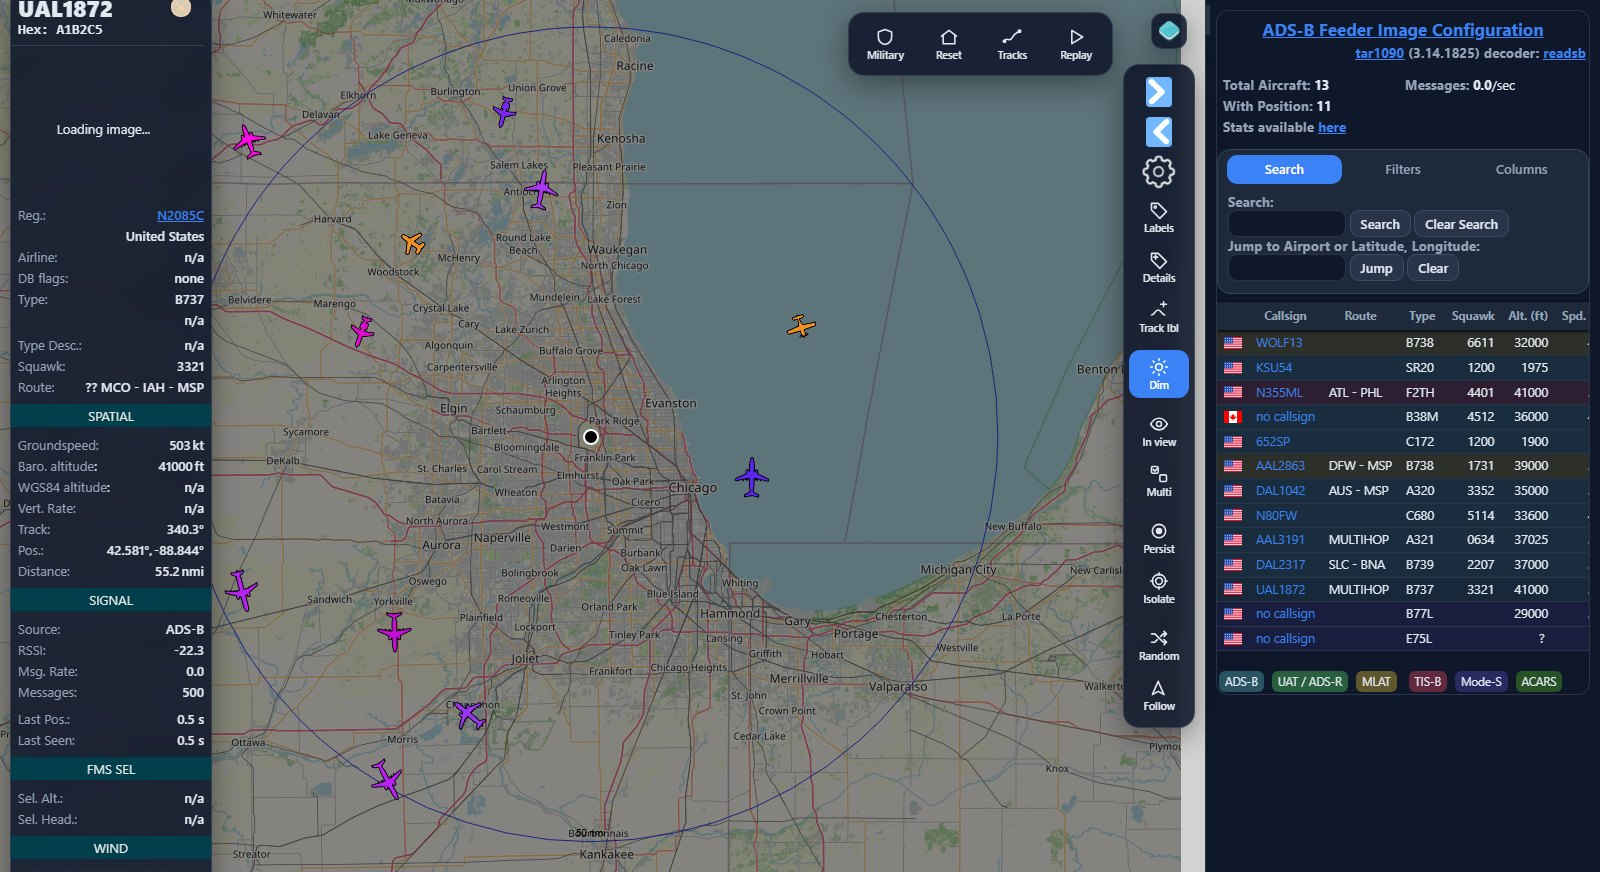
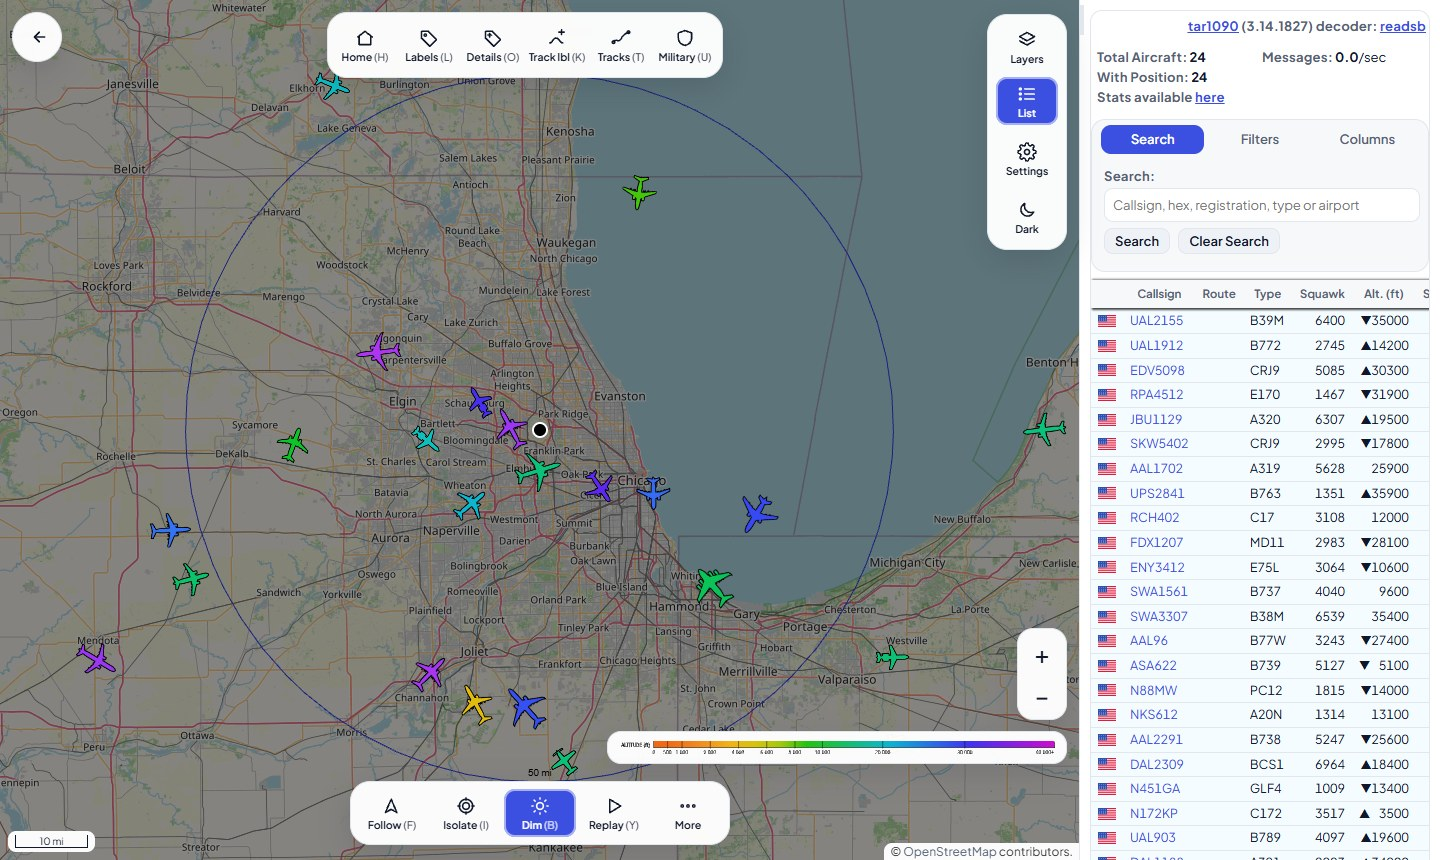
-30 README: full update for the Daylight look and -30 (report, dashboard, map layout, menus), all screenshots retaken with sample data; type photos no longer skip airliners or pick factory pages

diff --git a/src/modules/adsb-feeder/filesystem/root/opt/adsb/adsb-setup/static/js/k4nza-ui.js b/src/modules/adsb-feeder/filesystem/root/opt/adsb/adsb-setup/static/js/k4nza-ui.js
@@ -465,7 +465,8 @@
   const photoCache = new Map(); // hex -> {src, link, credit, typical} or null
   const photoWait = new Map(); // hex -> promise while asking
   const WIKI_AIRCRAFT = /aircraft|airliner|trainer|fighter|helicopter|bomber|tanker|airlifter|airplane|aeroplane|jet|plane|glider|gunship/i;
-  const WIKI_NOT = /engine|list of|family of|disambiguation|airport|airline|company|manufacturer|ship|car|vehicle/i;
+  // whole words only: "airline" must not match "Airliner"
+  const WIKI_NOT = /\b(engine|list of|family of|disambiguation|airport|airline|company|manufacturer|ship|car|vehicle|facility|factory|plant|assembly|museum|base|squadron)\b/i;
   async function spottersPhoto(hex) {
     const r = await fetch("https://api.planespotters.net/pub/photos/hex/" + encodeURIComponent(hex.toUpperCase()), { signal: AbortSignal.timeout(10000) });
     if (!r.ok) return null;

diff --git a/README.md b/README.md
@@ -11,6 +11,7 @@ writes to the SD card.
 **[Install](#install)** · **[What's new](CHANGELOG.md)** · **[SkyStats-K4NZA](https://github.com/ordoleonum/skystats-k4nza)** · **[Everyday use](#everyday-use)**
 
 ![Home dashboard](docs/screenshots/home.png)
+<sub>Sample data.</sub>
 
 ---
 
@@ -22,24 +23,25 @@ writes to the SD card.
 | **Every aircraft you've ever heard, searchable** | SkyStats-K4NZA keeps your history for months without freezing, and finds any aircraft by registration, callsign, type, operator or group. |
 | **Updates in one click, and back again** | Feeder and Raspberry Pi OS updates (kernels included) from one page. If a new version misbehaves, **Go back** reinstalls the old one. |
 | **Nightly backup to your NAS** | Settings, graphs and the whole SkyStats database, saved every night to a Synology or any SMB share. |
-| **Health at a glance** | Home shows receiver status, CPU temperature, power supply, disk space and history size, and turns amber or red with advice when something needs attention. |
-| **A modern live map** | Clean dark or light panels and buttons with words, on an unmodified tar1090 that keeps getting its own updates. |
+| **A dashboard, not a status page** | Aircraft overhead and today, the closest aircraft right now, today's highlights with photos, busy hours by day, week or month, and Pi health that turns amber or red with advice. |
+| **A modern live map** | Light or dark, buttons with words, replay links that follow the aircraft, on an unmodified tar1090 that keeps getting its own updates. |
 
-## New in v3.0.15-29
+## New in v3.0.15-30
 
-**Daylight**, a new look across the feeder, the live map and SkyStats, in light and dark:
+- **Dashboard:** the highlight cards (military, highest, rarest type, farthest) show a photo and open
+  the aircraft in SkyStats; the busy-hours card switches between Day, Week and Month; numbers refresh
+  faster and catch up as soon as you come back to the tab.
+- **Live map:** Layers, List, Settings and light/dark in one column at the top right; the search box
+  back in the aircraft list; replay links from SkyStats follow and isolate the aircraft; nothing
+  covers the replay bar; round zoom buttons and a bigger altitude key; photos that don't arrive are
+  asked for again.
+- **SkyStats:** clean type names ("Boeing 737-800"), ADSBExchange links, type photos when an aircraft
+  has none of its own, and operator and type for military aircraft only the feeder's own database
+  knows.
+- A new antenna mark in the top bar and as the tab icon.
 
-- **Feeder home** is a dashboard: aircraft overhead and today, today hour by hour, the closest
-  aircraft right now, today's highlights (farthest, highest, latest military, rarest type), the sites
-  you share with and station health. A top menu on a computer.
-- **Live map:** reorganised buttons around the edges, selected aircraft on the left, altitude key
-  bottom right, and a light/dark switch that follows the feeder.
-- **SkyStats:** a report for Today, Week, Month or All time (busiest hours, range, signal, airlines,
-  types, routes, notable visitors), a Feeder button, and visit times that open the live map's
-  **replay** of that moment.
-- **Updates** show the SkyStats download's progress and retry it if it stalls.
-
-**v3.0.15-28:** a page-by-page UI review; "today" counts no longer read 0 in the evening.
+**v3.0.15-29:** **Daylight**, the new look across the feeder, the live map and SkyStats, in light and
+dark, with the dashboard home page and the SkyStats report.
 
 Every release is in the [CHANGELOG](CHANGELOG.md).
 
@@ -53,16 +55,19 @@ SkyStats with its own public repository.
 **Find any aircraft.** Use the **Search** tab, or the search box on the feeder's Home page. Search by
 registration, hex code, callsign, type (`B739`, `C17`) or operator. You'll see every visit: when it
 came, its callsign and route, how close it got, how high it flew and how long it stayed in view.
-There's a photo from planespotters.net (credited to the photographer) and a FlightAware link, and you
-can download the visits as CSV.
+There's a photo from planespotters.net (credited to the photographer), or a photo of the type from
+Wikipedia, clearly marked as not this aircraft, when there's none of the aircraft itself. An
+**ADSBExchange** link shows where it is now, a click on any visit opens the live map's **replay** of
+it, and you can download the visits as CSV.
 
 ![SkyStats aircraft search](docs/screenshots/skystats-search.jpg)
-<sub>Sample data. Photo: U.S. Air Force photo by Heide Couch, public domain.</sub>
+<sub>Sample data. Type photo from Wikipedia.</sub>
 
-**List a whole group.** Click **Military**, **Government**, **Police** or **Civilian** in
-Interesting Aircraft to see every aircraft of that group in your history, not just the latest few.
-Click any column heading to sort. A registration anywhere in Interesting Aircraft or Record Holders
-opens its full history too.
+**List a whole group.** Click **Military**, **Government**, **Police** or **Civilian** on the
+Search tab or in Interesting Aircraft to see every aircraft of that group in your history, not just
+the latest few. Click any column heading to sort. A registration anywhere in SkyStats opens its full
+history too. Military aircraft that only the feeder's own aircraft database knows (not the
+plane-alert list) count as Military, with the operator and type that database has.
 
 ![Every military aircraft seen, sorted by visits](docs/screenshots/skystats-group.jpg)
 <sub>Sample data.</sub>
@@ -80,33 +85,39 @@ opens its full history too.
 - You can limit the history (*Setup → Advanced → SkyStats → Keep history (days)*). All-time totals,
   top types and the all-time range outline stay correct anyway.
 
+## A report on your sky
+
+SkyStats opens on a report for **Today**, **Week**, **Month** or **All time**: how many flights
+crossed your sky compared with the period before, how many different aircraft and types, the
+farthest one, the military ones, and when your sky is busiest, hour by hour for each day of the week.
+
+![SkyStats report](docs/screenshots/skystats-report.jpg)
+<sub>Sample data.</sub>
+
+Further down: **Aircraft types** and **Who flew over most**, **Where they were going** (the
+commonest routes) and **Notable visitors** with photos and a **Replay** link for each.
+
 ## See how well your station hears
 
-**Range by Direction** shows the farthest aircraft heard in each direction, with your all-time best
-as an outline; a dent shows where something blocks the antenna. **Signal vs Distance** plots each
+**How far you can hear** shows the farthest aircraft heard in each direction, with your all-time best
+as an outline; a dent shows where something blocks the antenna. **Signal vs distance** plots each
 aircraft's signal at its closest approach against distance, with the median and the overload
 level, for tuning gain and checking an antenna or filter change.
 
-![SkyStats reception charts](docs/screenshots/skystats-activity.jpg)
+![SkyStats reception charts](docs/screenshots/skystats-charts.jpg)
 <sub>Sample data.</sub>
 
 Not sure what you're looking at? **How to read this chart**, under both charts, explains what
 healthy looks like and what too much gain, too little gain, a blocked direction and gaps look like.
-
-<details>
-<summary>Show the chart guide</summary>
-
-![Signal vs Distance with its reading guide open](docs/screenshots/skystats-signal-notes.jpg)
-<sub>Sample data.</sub>
-</details>
 
 ## One-click updates you can undo
 
 The **Updates** page shows what's installed, what's waiting and what's new.
 
 - **Update feeder software** installs the newest release from this repository, including a new
-  SkyStats when there is one. The SkyStats download is checked against a checksum first. Settings
-  and history are kept; an update takes 5-15 minutes and feeding pauses only briefly.
+  SkyStats when there is one. The SkyStats download shows its progress, is retried if it stalls, and
+  is checked against a checksum first. Settings and history are kept; an update takes 5-15 minutes
+  and feeding pauses only briefly. **What's new** shows the release notes before you update.
 - **Update Pi OS** installs Raspberry Pi OS updates, new kernels included, then removes what's no
   longer needed. After a kernel update, **Restart now** appears.
 - **Go back to ...** reinstalls the version the feeder ran before, if something isn't right
@@ -160,35 +171,48 @@ It also stays reachable and quiet on your network:
 
 ## A dashboard you can read at a glance
 
-- **Top menu** on a computer with the installed version and live receiver status (a slide-in menu
-  and bottom tabs on a phone); light and dark mode.
-- **Home** shows aircraft now, messages and positions per second, and aircraft today, all refreshing
-  every 5 seconds. Below them are an aircraft search box, aircraft per day, and the sites you feed.
-- **Pi health tiles** cover CPU temperature, power supply, free disk space and SkyStats history size
-  (with growth per month). Each tile turns amber or red; tap or hover over it for advice.
+- **A top menu** on a computer (Overview, Live map, SkyStats, Graphs, Setup, System) with your
+  station name, the installed version and live receiver status; a slide-in menu and bottom tabs on a
+  phone. Light and dark, with a sun/moon switch that the live map and SkyStats follow.
+- **Overview** says it in one sentence ("42 aircraft overhead right now, 1,604 since midnight"), with
+  a search box for your history. Four numbers follow: messages and positions per second (every 5
+  seconds), the farthest aircraft today and how many were never seen before.
+- **Busy hours:** today hour by hour, or aircraft per day for the last week or month, with the busiest
+  and quietest hour or day.
+- **Closest right now:** the four nearest aircraft with type, distance and altitude.
+- **Today's highlights:** the latest military aircraft, the highest, the rarest type and the farthest,
+  each with a photo; click one to open it in SkyStats.
+- **Sharing with** shows each site you feed and whether MLAT is on; **Station health** covers CPU
+  temperature, power supply, free disk space and SkyStats history size. Each turns amber or red; tap
+  or hover over it for advice.
 - **Plain-English help** under every settings section, tooltips on buttons, and a confirmation
-  before shutdown, reboot and similar actions.
-- **Radio (SDR)** page with a step-by-step guide to better reception.
-- **Help → Share diagnostics** downloads anonymized logs and opens a problem report on this GitHub
+  before shutdown, reboot and similar actions. The **Radio (SDR)** page has a step-by-step guide to
+  better reception.
+- **System → Share diagnostics** downloads anonymized logs and opens a problem report on this GitHub
   repository. Stock adsb.im uploads them to public paste sites instead.
 
 <table>
   <tr>
-    <td valign="top" width="40%"><b>On a phone</b>: bottom tabs, a slide-in menu and the status tiles.<br><br>
+    <td valign="top" width="40%"><b>On a phone</b>: the same dashboard in one column, bottom tabs and a slide-in menu (dark mode shown).<br><br>
       <img src="docs/screenshots/phone.jpg" alt="Home page on a phone" width="100%"></td>
     <td valign="top" width="60%"><b>SkyStats export</b>: everything as a ZIP, or one dataset at a time as CSV for Excel or Google Sheets, with an optional date range. SkyStats backups can be restored under <i>System → Restore</i>.<br><br>
       <img src="docs/screenshots/skystats-export.jpg" alt="SkyStats export" width="100%"></td>
   </tr>
 </table>
 
-## A modern live map
-
-- Dark or light panels for the buttons, aircraft list, selected-aircraft card, settings and legend.
-- Icon-and-word buttons instead of single letters: Home, Labels, Details, Track labels, Tracks and
-  Military in a top bar in the middle of the map; List, Settings, Dim, Isolate and Follow in a short
-  column; Replay and the rest under **More**. Each shows its keyboard shortcut, like "Labels (L)",
-  and a tooltip on hover (press and hold on a phone). A **Feeder** button goes back to the feeder.
-- One search box: callsign, hex, registration or type, or an airport code to jump to.
+- Light or dark panels for the buttons, aircraft list, selected aircraft, settings and legend, in the
+  same look as the feeder.
+- Icon-and-word buttons instead of single letters, each with its keyboard shortcut, like
+  "Labels (L)", and a tooltip on hover (press and hold on a phone):
+  - top bar: Home, Labels, Details, Track labels, Tracks and Military
+  - right column: Layers, List, Settings and light/dark
+  - bottom: Follow, Isolate, Dim, Replay and **More** (In view, Multi-select, Persist, Random, Full
+    screen, Wide list)
+  - top left: **Feeder**, back to the feeder.
+- The selected aircraft on the left with its photo (asked for again if it doesn't arrive).
+- The search box in the aircraft list also jumps to an airport code or coordinates.
+- **Replay** links from SkyStats open the map at that moment with the aircraft selected, followed and
+  shown on its own; the buttons move up above the replay controls.
 - Routes the route service can't confirm are checked against SkyStats instead of shown wrong.
 - On a phone: icons only, and the map opens without the aircraft list covering it.
 - **Nautical, Imperial or Metric** for distances, speeds and altitudes in the map and SkyStats. Set
@@ -235,18 +259,16 @@ The image is for Raspberry Pi (64-bit) only and has no maintainer SSH key built 
 
 ## Everyday use
 
-The menu on the left (or the **Menu** tab on a phone) has everything:
+The menu at the top (or the **Menu** tab on a phone) has everything:
 
 | Page | What it's for |
 |---|---|
-| **Home** | Receiver status, Pi health, aircraft search, aircraft per day |
-| **Live map** | The aircraft you're receiving right now; Heatmap, Tracks and Replay are just below it |
-| **SkyStats** | Flight history, routes, records, interesting aircraft, **Search**, **Export** |
-| **Reception graphs** | How well your station is doing over hours, days and months |
-| **Radio (SDR)** | Check your radio and gain, with a step-by-step guide to better reception |
-| **Data sharing** | Choose which flight-tracking sites receive your data |
-| **Updates** | Feeder and Raspberry Pi OS updates with one click, and **Go back** |
-| **Backup / Restore** | Save or bring back your settings and SkyStats history, plus the nightly NAS backup |
+| **Overview** | The dashboard: what's overhead, today's highlights, history search, station health |
+| **Live map** | The aircraft you're receiving right now; Heatmap, Tracks, Replay and Map options are in its menu |
+| **SkyStats** | The report, routes, interesting aircraft, records, **Search** and **Export** |
+| **Graphs** | How well your station is doing over hours, days and months |
+| **Setup** | Basic setup, Advanced, Radio (SDR) with a reception guide, and Data sharing (which sites get your data) |
+| **System** | Updates (with **Go back**), Management, Backup and Restore (with the nightly NAS backup), logs and diagnostics |
 
 The live map, graphs and SkyStats open in a new browser tab.
 

diff --git a/CHANGELOG.md b/CHANGELOG.md
@@ -17,6 +17,14 @@ The feeder's **Updates** page shows the newest entry as "What's new".
 - The hour-by-hour card has Day, Week and Month views (aircraft per day, busiest and quietest day).
 - Aircraft types are named from the ICAO type list ("Boeing 737-800", not "Boeing 737NG 823/W").
 
+**SkyStats**
+- The report shows **Aircraft types** before **Who flew over most**, with clean type names.
+- Search: **View on ADSBExchange** instead of FlightAware; an aircraft opened from the list of
+  recently seen interesting aircraft opens under its row with **Close**, like other results.
+- Military aircraft that only the feeder's own aircraft database knows get its operator and type.
+- Aircraft without a photo of their own (Search, Notable visitors, the dashboard) show a photo of
+  their type from Wikipedia, marked "not this aircraft". Airliner photos were wrongly skipped before.
+
 **Live map**
 - Layers, List, Settings and light/dark are one column at the top right again, with Layers at the
   top; the layer list opens beside the column.
